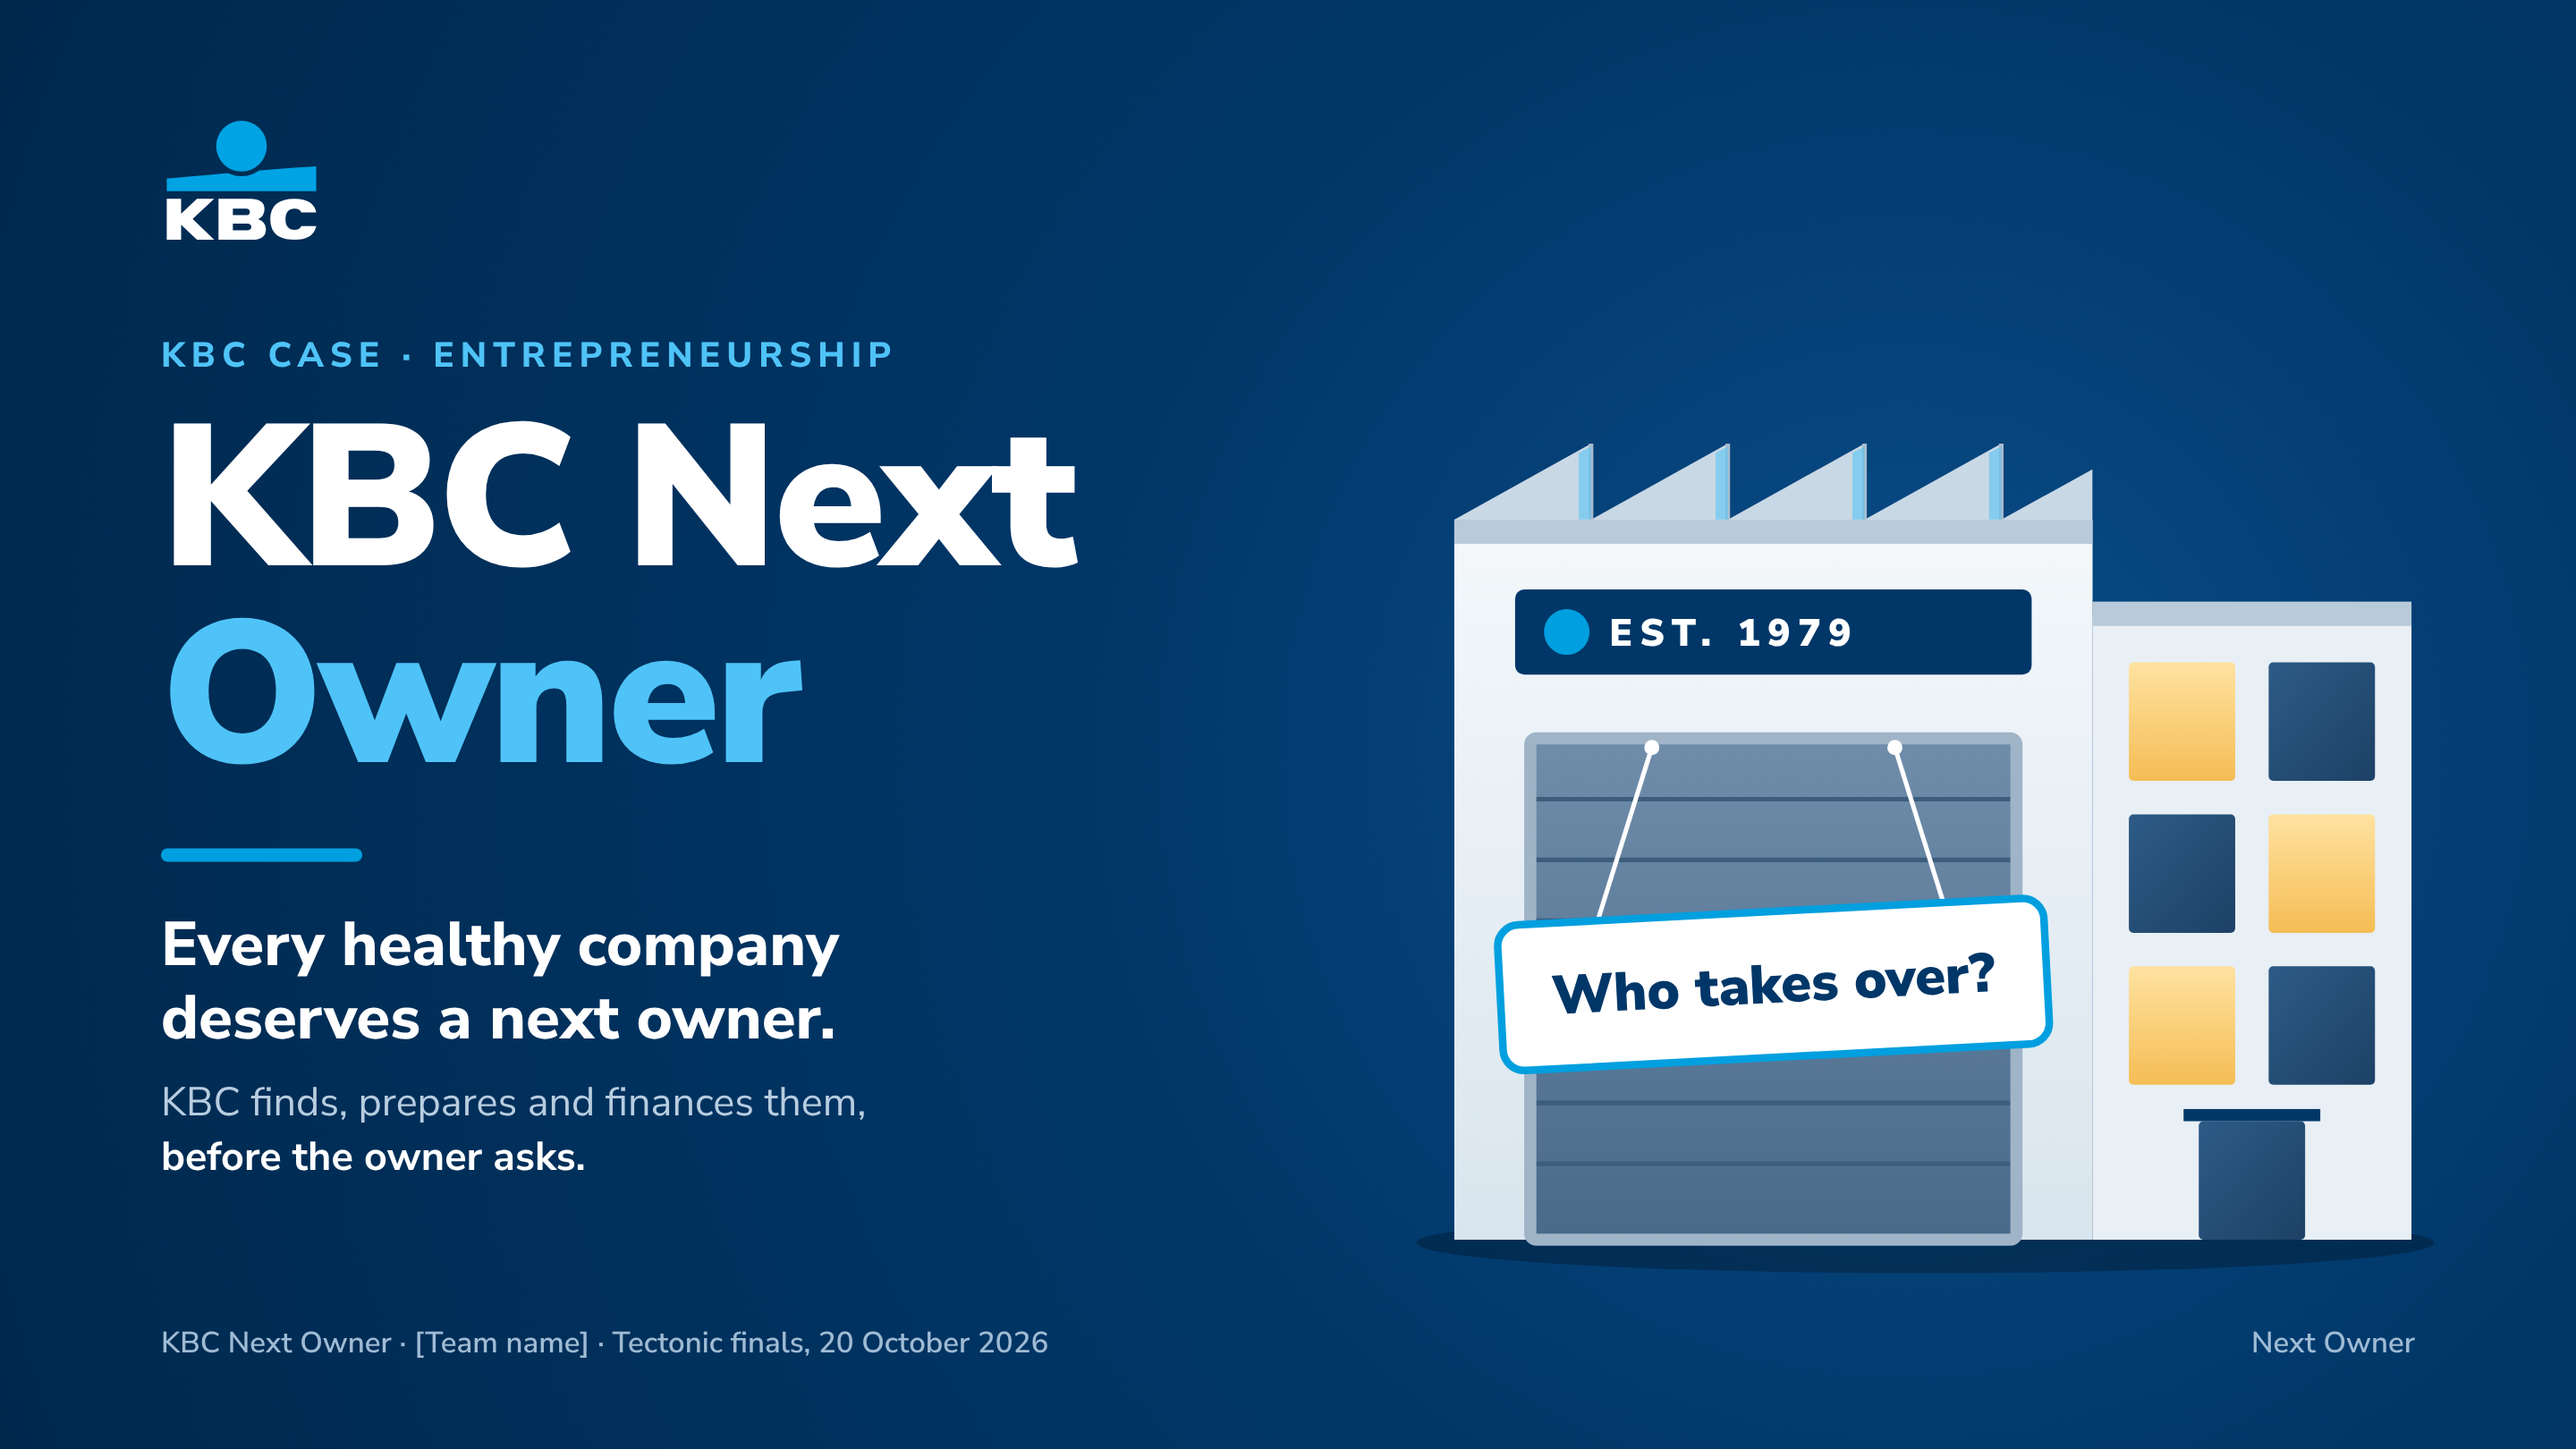
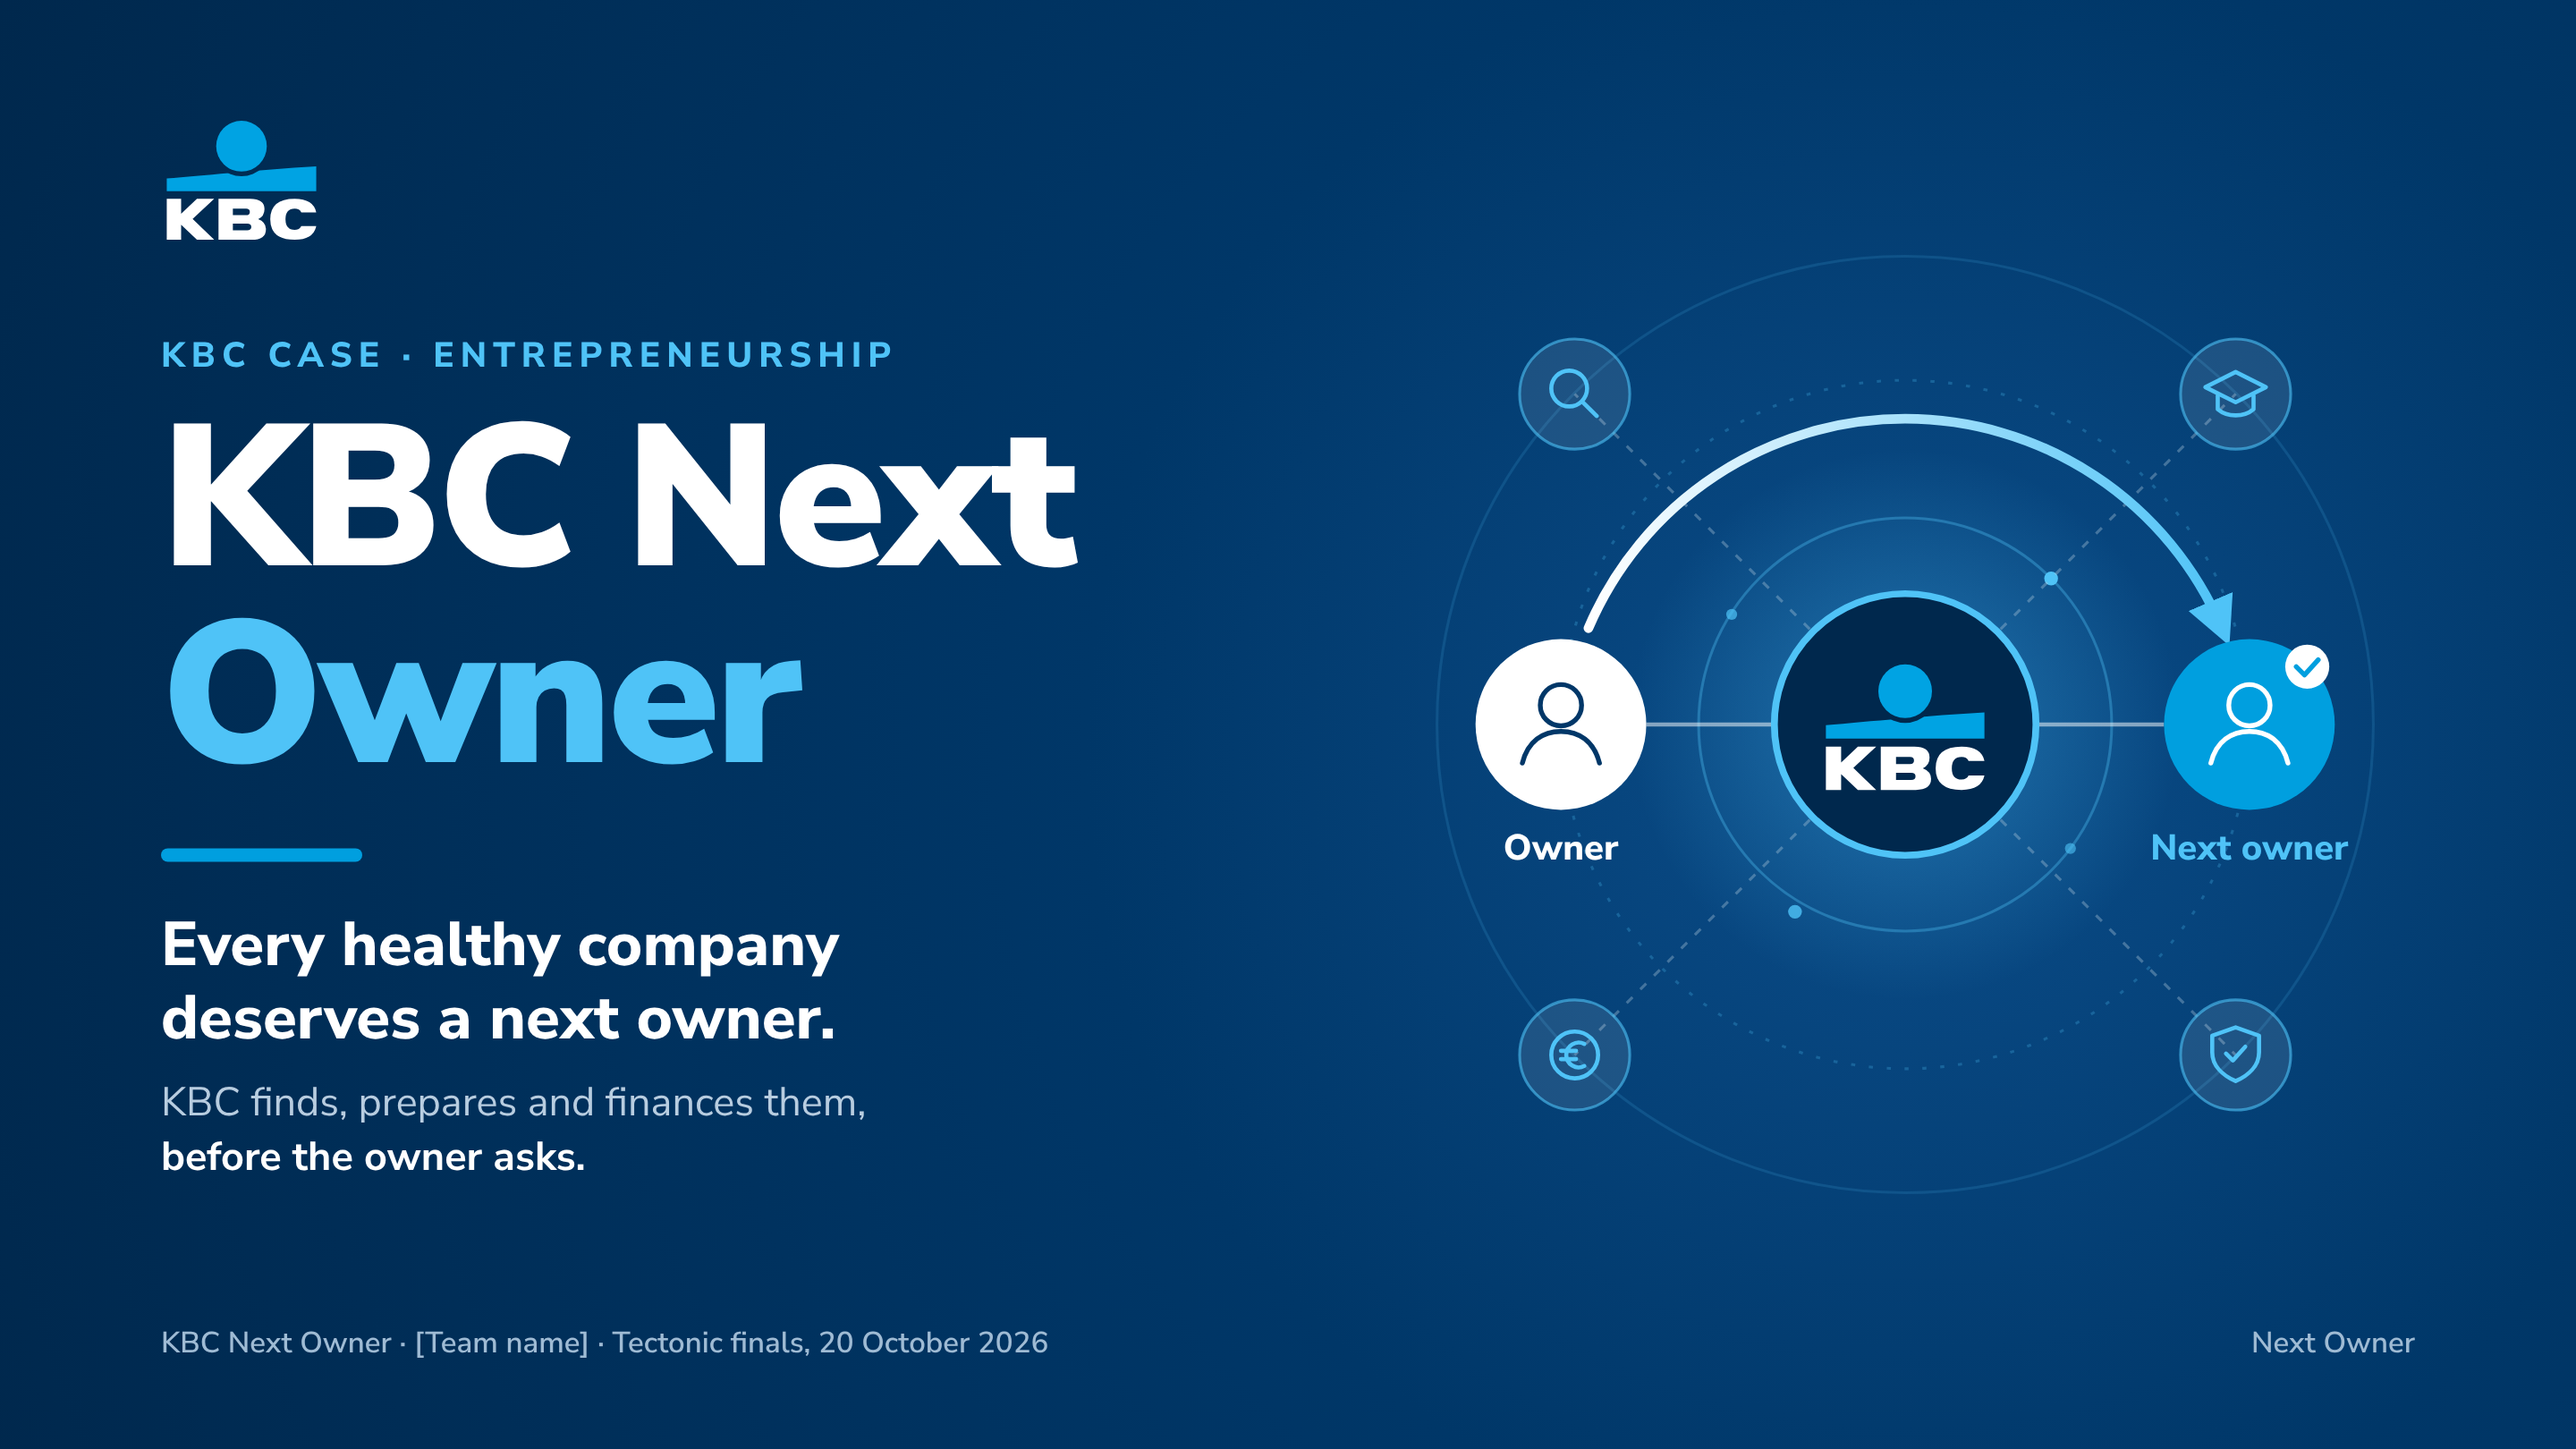
Title slide: abstract ecosystem illustration (owner to next owner via KBC)
Claude-Session: https://claude.ai/code/session_019pKDhs8WJ9ksLK9yFgr7c1

Changed region(s): [[0.5312, 0.216, 0.9375, 0.8951], [0.8438, 0.216, 0.9062, 0.3086]]

diff --git a/slides/title.html b/slides/title.html
@@ -18,7 +18,7 @@ h1 span{color:var(--blue-2)}
 .sub b{color:#fff}
 .foot{position:absolute;left:120px;right:120px;bottom:64px;display:flex;justify-content:space-between;font-size:22px;color:#9fbbd4;font-weight:600}
 
-svg.shop{position:absolute;right:100px;top:120px;width:770px;height:838px}
+svg.eco{position:absolute;right:110px;top:150px;width:780px;height:780px}
 </style></head><body>
 
 <img class="logo" src="kbc-logo-white.svg" alt="KBC">
@@ -31,49 +31,48 @@ svg.shop{position:absolute;right:100px;top:120px;width:770px;height:838px}
   <div class="sub">KBC finds, prepares and finances them,<br><b>before the owner asks.</b></div>
 </div>
 
-<!-- A healthy industrial SME: production hall + office wing, loading door closed, sign: who takes over? -->
-<svg class="shop" viewBox="0 0 680 740" fill="none">
+<!-- Abstract ecosystem: KBC hub, owner -> next owner handover arc, partners on the outer ring -->
+<svg class="eco" viewBox="0 0 760 760" fill="none">
   <defs>
-    <linearGradient id="wall" x1="0" y1="0" x2="0" y2="1"><stop offset="0" stop-color="#f4f8fb"/><stop offset="1" stop-color="#d9e5ee"/></linearGradient>
-    <linearGradient id="glass" x1="0" y1="0" x2="1" y2="1"><stop offset="0" stop-color="#2d5b86"/><stop offset="1" stop-color="#1d4166"/></linearGradient>
-    <linearGradient id="lit" x1="0" y1="0" x2="0" y2="1"><stop offset="0" stop-color="#ffe2a0"/><stop offset="1" stop-color="#f5bd55"/></linearGradient>
-    <linearGradient id="door" x1="0" y1="0" x2="0" y2="1"><stop offset="0" stop-color="#6f8daa"/><stop offset="1" stop-color="#4a6a8a"/></linearGradient>
+    <linearGradient id="arc" x1="0" y1="0" x2="1" y2="0"><stop offset="0" stop-color="#ffffff"/><stop offset="1" stop-color="#4fc3f7"/></linearGradient>
+    <marker id="head" viewBox="0 0 10 10" refX="6" refY="5" markerWidth="5" markerHeight="5" orient="auto"><path d="M0 0L10 5L0 10z" fill="#4fc3f7"/></marker>
+    <radialGradient id="glow"><stop offset="0" stop-color="#4fc3f7" stop-opacity=".35"/><stop offset="1" stop-color="#4fc3f7" stop-opacity="0"/></radialGradient>
   </defs>
-  <ellipse cx="340" cy="712" rx="335" ry="20" fill="#000" opacity=".25"/>
-  <!-- production hall with sawtooth roof -->
-  <path d="M30 300 L30 236 L120 186 L120 236 L210 186 L210 236 L300 186 L300 236 L390 186 L390 236 L450 203 V300 Z" fill="#c9d8e5"/>
-  <g fill="#9fd8f3"><path d="M120 186 L120 236 L106 236 Z" opacity=".0"/></g>
-  <g stroke="#a9bccd" stroke-width="3"><path d="M120 186V236M210 186V236M300 186V236M390 186V236"/></g>
-  <g fill="#4fc3f7" opacity=".55"><path d="M112 192 L120 188 L120 236 L112 236 Z"/><path d="M202 192 L210 188 L210 236 L202 236 Z"/><path d="M292 192 L300 188 L300 236 L292 236 Z"/><path d="M382 192 L390 188 L390 236 L382 236 Z"/></g>
-  <rect x="30" y="236" width="420" height="474" fill="url(#wall)"/>
-  <rect x="30" y="236" width="420" height="16" fill="#b9cbdb"/>
-  <!-- company band -->
-  <rect x="70" y="282" width="340" height="56" rx="6" fill="#003768"/>
-  <circle cx="104" cy="310" r="15" fill="#009fdf"/>
-  <text x="132" y="319" font-family="Nunito Sans,sans-serif" font-size="25" font-weight="900" fill="#fff" letter-spacing="5">EST. 1979</text>
-  <!-- loading door, closed -->
-  <rect x="80" y="380" width="320" height="330" rx="4" fill="url(#door)"/>
-  <g stroke="#3d5d7d" stroke-width="3">
-    <line x1="80" y1="420" x2="400" y2="420"/><line x1="80" y1="460" x2="400" y2="460"/><line x1="80" y1="500" x2="400" y2="500"/>
-    <line x1="80" y1="540" x2="400" y2="540"/><line x1="80" y1="580" x2="400" y2="580"/><line x1="80" y1="620" x2="400" y2="620"/><line x1="80" y1="660" x2="400" y2="660"/>
+  <circle cx="380" cy="380" r="200" fill="url(#glow)"/>
+  <!-- orbits -->
+  <circle cx="380" cy="380" r="150" stroke="rgba(79,195,247,.35)" stroke-width="2"/>
+  <circle cx="380" cy="380" r="250" stroke="rgba(79,195,247,.25)" stroke-width="2" stroke-dasharray="3 10"/>
+  <circle cx="380" cy="380" r="340" stroke="rgba(79,195,247,.15)" stroke-width="2"/>
+  <g fill="#4fc3f7"><circle cx="486" cy="274" r="5"/><circle cx="254" cy="300" r="4" opacity=".7"/><circle cx="300" cy="516" r="5" opacity=".8"/><circle cx="500" cy="470" r="4" opacity=".6"/></g>
+  <!-- partner links -->
+  <g stroke="rgba(184,205,224,.35)" stroke-width="2" stroke-dasharray="6 8">
+    <line x1="380" y1="380" x2="140" y2="140"/><line x1="380" y1="380" x2="620" y2="140"/>
+    <line x1="380" y1="380" x2="140" y2="620"/><line x1="380" y1="380" x2="620" y2="620"/>
   </g>
-  <rect x="80" y="380" width="320" height="330" rx="4" stroke="#9fb4c7" stroke-width="8"/>
-  <!-- office wing with lit windows -->
-  <rect x="450" y="300" width="210" height="410" fill="#e8eff5"/>
-  <rect x="450" y="290" width="210" height="16" fill="#b9cbdb"/>
-  <g>
-    <rect x="474" y="330" width="70" height="78" rx="3" fill="url(#lit)"/><rect x="566" y="330" width="70" height="78" rx="3" fill="url(#glass)"/>
-    <rect x="474" y="430" width="70" height="78" rx="3" fill="url(#glass)"/><rect x="566" y="430" width="70" height="78" rx="3" fill="url(#lit)"/>
-    <rect x="474" y="530" width="70" height="78" rx="3" fill="url(#lit)"/><rect x="566" y="530" width="70" height="78" rx="3" fill="url(#glass)"/>
+  <g stroke="rgba(255,255,255,.5)" stroke-width="3"><line x1="192" y1="380" x2="285" y2="380"/><line x1="475" y1="380" x2="568" y2="380"/></g>
+  <!-- handover arc -->
+  <path d="M150 310 A250 250 0 0 1 610 310" stroke="url(#arc)" stroke-width="7" stroke-linecap="round" marker-end="url(#head)"/>
+  <!-- KBC hub -->
+  <circle cx="380" cy="380" r="95" fill="#00284d" stroke="#4fc3f7" stroke-width="5"/>
+  <image href="kbc-logo-white.svg" x="318" y="330" width="124" height="102"/>
+  <!-- owner and next owner -->
+  <circle cx="130" cy="380" r="62" fill="#ffffff"/>
+  <g stroke="#003768" stroke-width="3.5" stroke-linecap="round" fill="none"><circle cx="130" cy="366" r="15"/><path d="M102 408c4-16 15-23 28-23s24 7 28 23"/></g>
+  <circle cx="630" cy="380" r="62" fill="#009fdf"/>
+  <g stroke="#ffffff" stroke-width="3.5" stroke-linecap="round" fill="none"><circle cx="630" cy="366" r="15"/><path d="M602 408c4-16 15-23 28-23s24 7 28 23"/></g>
+  <circle cx="672" cy="338" r="16" fill="#ffffff"/><path d="M664 338l6 6 10-11" stroke="#009fdf" stroke-width="3.5" stroke-linecap="round" stroke-linejoin="round"/>
+  <g font-family="Nunito Sans,sans-serif" font-size="26" font-weight="800" text-anchor="middle">
+    <text x="130" y="478" fill="#ffffff">Owner</text><text x="630" y="478" fill="#4fc3f7">Next owner</text>
   </g>
-  <rect x="520" y="632" width="70" height="78" rx="3" fill="url(#glass)"/>
-  <rect x="510" y="624" width="90" height="8" fill="#003768"/>
-  <!-- hanging sign on the door -->
-  <g stroke="#ffffff" stroke-width="3"><line x1="160" y1="386" x2="125" y2="498"/><line x1="320" y1="386" x2="355" y2="498"/></g>
-  <circle cx="160" cy="386" r="5" fill="#fff"/><circle cx="320" cy="386" r="5" fill="#fff"/>
-  <g transform="rotate(-3 240 540)">
-    <rect x="60" y="494" width="360" height="96" rx="14" fill="#ffffff" stroke="#009fdf" stroke-width="5"/>
-    <text x="240" y="554" text-anchor="middle" font-family="Nunito Sans,sans-serif" font-size="36" font-weight="900" fill="#003768">Who takes over?</text>
+  <!-- partners: headhunters, schools, financing, insurance -->
+  <g fill="rgba(255,255,255,.1)" stroke="rgba(79,195,247,.6)" stroke-width="2">
+    <circle cx="140" cy="140" r="40"/><circle cx="620" cy="140" r="40"/><circle cx="140" cy="620" r="40"/><circle cx="620" cy="620" r="40"/>
+  </g>
+  <g stroke="#4fc3f7" stroke-width="3" stroke-linecap="round" stroke-linejoin="round" fill="none">
+    <circle cx="136" cy="136" r="13"/><path d="M146 146l10 10"/>
+    <path d="M620 124l22 11-22 11-22-11z"/><path d="M607 141v10c7 6 19 6 26 0v-10"/>
+    <circle cx="140" cy="620" r="17"/><path d="M147 612a9 9 0 1 0 0 16M130 617h11M130 623h11"/>
+    <path d="M620 600l17 6v12c0 10-8 17-17 21-9-4-17-11-17-21v-12z"/><path d="M613 619l5 5 9-10"/>
   </g>
 </svg>
 
